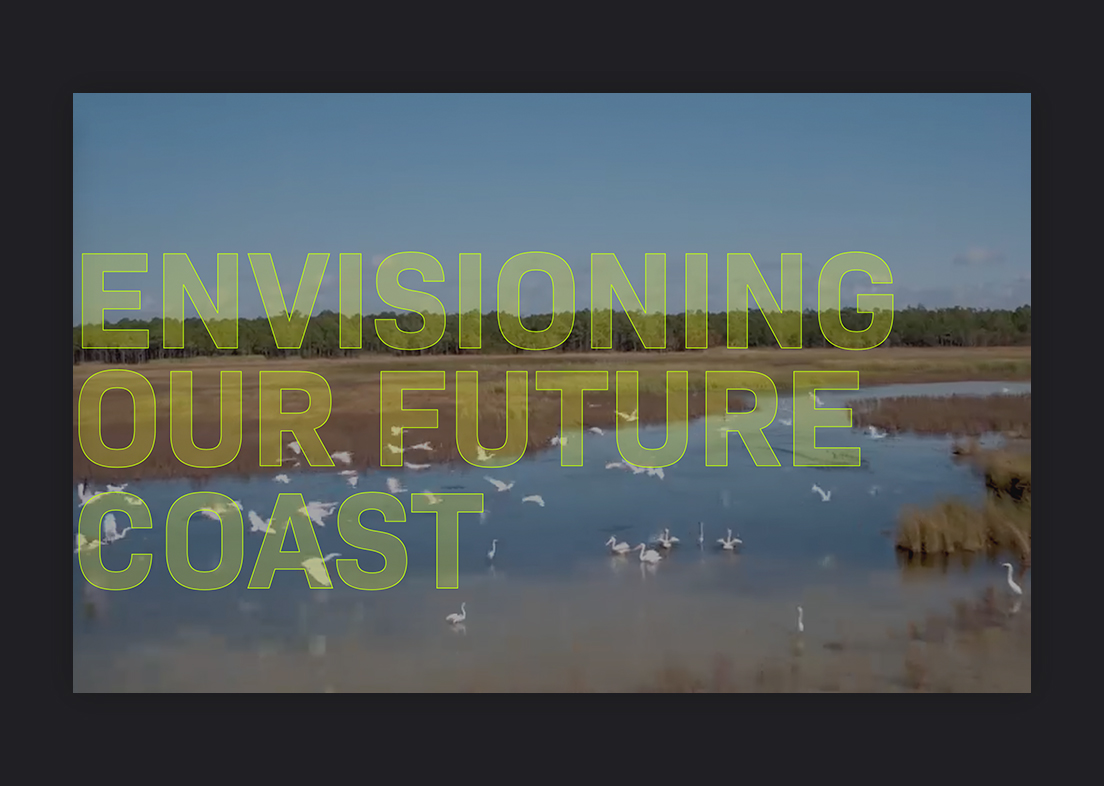
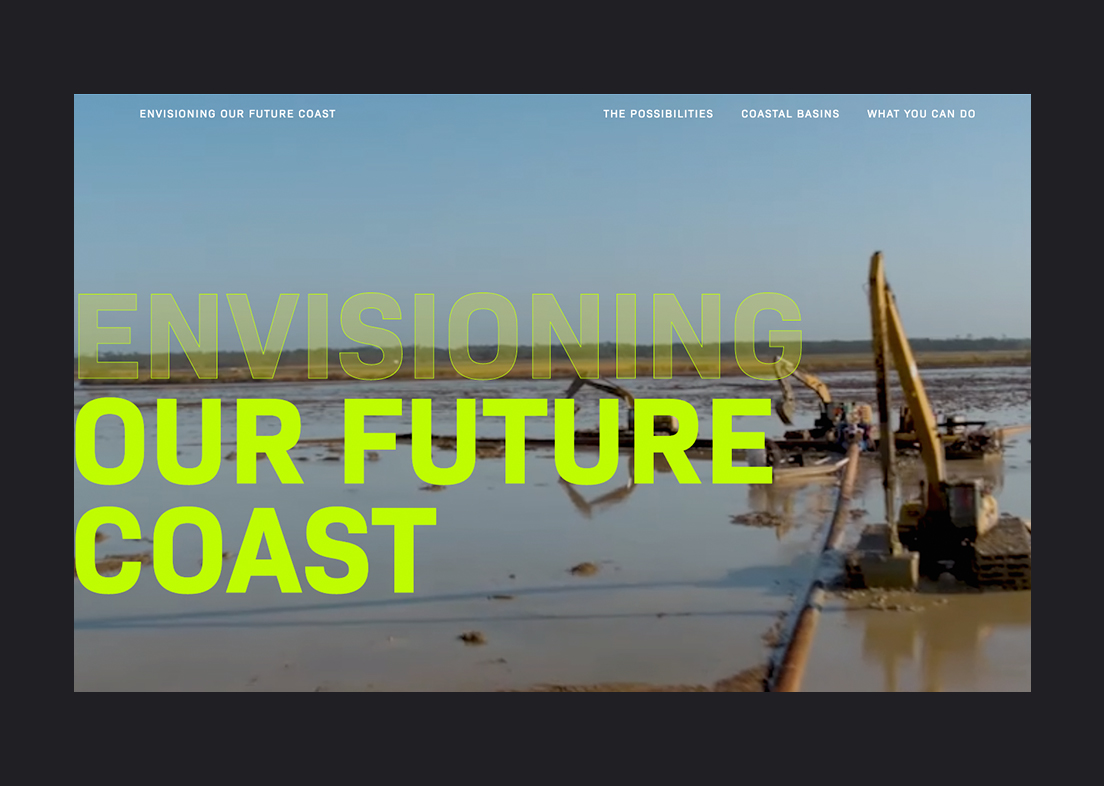
Changes spotlight image and featured work. Changes EOFC thumb.

diff --git a/index.html b/index.html
@@ -26,7 +26,7 @@
 				<section class="title-alt">
 					<h1 class="primary-alt">Branding<small>,</small> Print &amp; UX Designer</h1>
 				</section>
-				<small class="spotlight-text">Spotlight: <a href="portfolio/audubon">Audubon Birds and Climate Report 2.0</a></small>
+				<small class="spotlight-text">Spotlight: <a href="portfolio/envisioning-our-future-coast">Envisioning Our Future Coast</a></small>
 			</main>
 		</div>
 
@@ -35,13 +35,13 @@
 				<h2 class="primary">Featured Work</h1>
 			</section>
 			<div class="half">
-				<a class="thumb" href="portfolio/envisioning-our-future-coast" title="Envisioning Our Future Coast"><img src="portfolio/envisioning-our-future-coast/env-thumb@2x.jpg" alt="Envisioning Our Future Coast"></a>
-			</div>
-			<div class="half">
 				<a class="thumb" href="portfolio/protect-their-future" title="Restore the Coast. Protect Their Future."><img src="portfolio/protect-their-future/restore-thumb-2@2x.jpg" alt="Restore the Coast. Protect Their Future."></a>
 			</div>
 			<div class="half">
-				<a class="thumb" href="portfolio/pain-intervention-center" title="Pain Intervention Center"><img src="portfolio/pain-intervention-center/pic-thumb@2x.jpg" alt="Pain Intervention Center"></a>
+				<a class="thumb" href="portfolio/audubon-louisiana" title="Audubon Gulf Restoration Report"><img src="portfolio/audubon-louisiana/audubon-thumb@2x.jpg" alt="Audubon Gulf Restoration Report"></a>
+			</div>
+			<div class="half">
+				<a class="thumb" href="portfolio/restore" title="Restore the Mississippi River Delta"><img src="portfolio/restore/restore-thumb@2x.jpg" alt="Restore the Mississippi River Delta"></a>
 			</div>
 			<div class="half">
 				<a class="thumb" href="portfolio" title="More Work"><img src="images/more-thumb@2x.jpg" alt="More Work"></a>

diff --git a/assets/css/main.css b/assets/css/main.css
@@ -233,8 +233,10 @@ a.thumb {
 .spotlight-wrap {
 	margin-bottom: 1.25em;
 	padding-bottom: 1em;
-	background-image: url(../../images/spotlight-audubon.jpg);
+	background-image: url(../../images/spotlight-eofc.jpg);
 	background-position: center;
+	background-repeat: no-repeat;
+	background-color: #201f24;
 	position: relative;
 	color: #fff !important; }
 
@@ -257,7 +259,7 @@ a.thumb {
 	line-height: .85;
 	letter-spacing: 0;
 	color: rgba( 255,255,255, 1);
-	mix-blend-mode: difference;
+	mix-blend-mode: screen;
 	z-index: 1; }
 
 /* Comma */
@@ -561,7 +563,7 @@ footer .half {
 	.cards .half {
 		width: calc( (100% / 3) - .5em); } }
 
-@media screen and (min-width: 2400px) {
+@media screen and (min-width: 2000px) {
 	
 	.cards .half {
 		width: calc( 25% - .5em); } }
